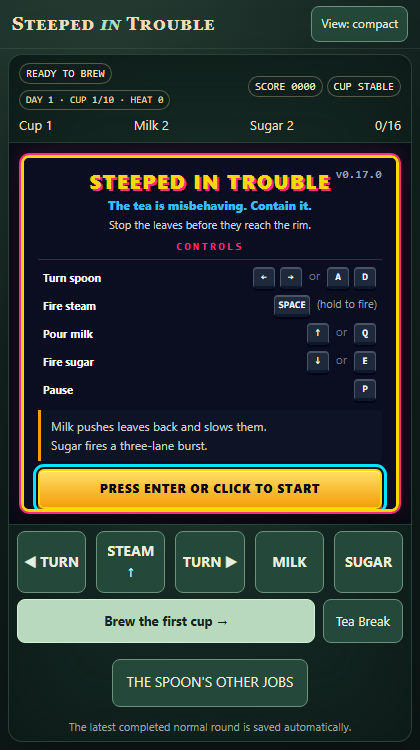
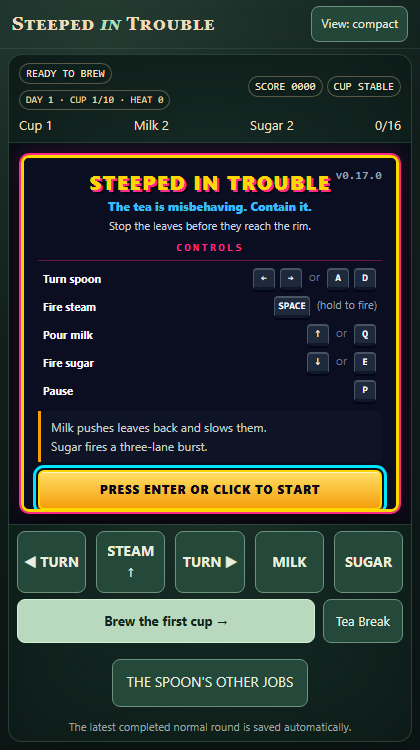
fix(overlay): fix page scrolling regression, keyboard new-pot activation, and focus management

diff --git a/tests/unit/arcadeOverlay.test.js b/tests/unit/arcadeOverlay.test.js
@@ -110,8 +110,11 @@ describe('instruction overlay controller', () => {
     const newPotBtn = createElement('overlayNewPotBtn', 'button');
     const touchSummary = createElement('overlayTouchSummary', 'div');
 
+    dialog.querySelectorAll = vi.fn(() => [primaryBtn, newPotBtn].filter((b) => !b.hidden));
+
     const doc = {
       activeElement: null,
+      defaultView: { scrollX: 0, scrollY: 0, scrollTo: vi.fn() },
       getElementById: vi.fn((id) => elements.get(id) || null),
       addEventListener: vi.fn((event, handler) => {
         if (!listeners.has(event)) listeners.set(event, []);
@@ -259,6 +262,119 @@ describe('instruction overlay controller', () => {
     });
 
     expect(onStart).toHaveBeenCalledWith({ fromTeaBreak: false, isNewPot: true });
+  });
+
+  it('Enter key on focused New Pot button triggers new pot confirmation flow', () => {
+    const { doc, newPotBtn } = makeMockDoc();
+    const onStart = vi.fn();
+    const overlay = createInstructionOverlay({ doc, onStart });
+
+    overlay.show({ hasSavedPot: true });
+    doc.activeElement = newPotBtn;
+
+    const event = {
+      type: 'keydown',
+      code: 'Enter',
+      preventDefault: vi.fn(),
+      stopPropagation: vi.fn(),
+    };
+    doc.dispatchEvent(event);
+
+    expect(event.preventDefault).toHaveBeenCalled();
+    expect(event.stopPropagation).toHaveBeenCalled();
+    expect(onStart).toHaveBeenCalledWith({ fromTeaBreak: false, isNewPot: true });
+    expect(overlay.isOpen).toBe(false);
+  });
+
+  it('Space key on focused New Pot button triggers new pot confirmation flow', () => {
+    const { doc, newPotBtn } = makeMockDoc();
+    const onStart = vi.fn();
+    const overlay = createInstructionOverlay({ doc, onStart });
+
+    overlay.show({ hasSavedPot: true });
+    doc.activeElement = newPotBtn;
+
+    const event = {
+      type: 'keydown',
+      code: 'Space',
+      preventDefault: vi.fn(),
+      stopPropagation: vi.fn(),
+    };
+    doc.dispatchEvent(event);
+
+    expect(event.preventDefault).toHaveBeenCalled();
+    expect(event.stopPropagation).toHaveBeenCalled();
+    expect(onStart).toHaveBeenCalledWith({ fromTeaBreak: false, isNewPot: true });
+  });
+
+  it('Space key on focused primary button does not dismiss overlay to prevent input leak', () => {
+    const { doc, primaryBtn } = makeMockDoc();
+    const onStart = vi.fn();
+    const overlay = createInstructionOverlay({ doc, onStart });
+
+    overlay.show({ hasSavedPot: false });
+    doc.activeElement = primaryBtn;
+
+    const event = {
+      type: 'keydown',
+      code: 'Space',
+      preventDefault: vi.fn(),
+      stopPropagation: vi.fn(),
+    };
+    doc.dispatchEvent(event);
+
+    expect(event.preventDefault).toHaveBeenCalled();
+    expect(event.stopPropagation).toHaveBeenCalled();
+    expect(onStart).not.toHaveBeenCalled();
+    expect(overlay.isOpen).toBe(true);
+  });
+
+  it('Tab key traps focus within dialog buttons', () => {
+    const { doc, primaryBtn, newPotBtn } = makeMockDoc();
+    const overlay = createInstructionOverlay({ doc });
+
+    overlay.show({ hasSavedPot: true });
+    doc.activeElement = newPotBtn; // last focusable element
+
+    const tabForward = {
+      type: 'keydown',
+      code: 'Tab',
+      shiftKey: false,
+      preventDefault: vi.fn(),
+    };
+    doc.dispatchEvent(tabForward);
+    expect(tabForward.preventDefault).toHaveBeenCalled();
+    expect(primaryBtn.focus).toHaveBeenCalledWith({ preventScroll: true });
+
+    doc.activeElement = primaryBtn; // first focusable element
+    const tabBackward = {
+      type: 'keydown',
+      code: 'Tab',
+      shiftKey: true,
+      preventDefault: vi.fn(),
+    };
+    doc.dispatchEvent(tabBackward);
+    expect(tabBackward.preventDefault).toHaveBeenCalled();
+    expect(newPotBtn.focus).toHaveBeenCalledWith({ preventScroll: true });
+  });
+
+  it('supports dynamic touch getter function and refreshes on show', () => {
+    const { doc, touchSummary } = makeMockDoc();
+    let touchState = false;
+    const overlay = createInstructionOverlay({
+      doc,
+      isTouchDevice: () => touchState,
+    });
+
+    expect(touchSummary.hidden).toBe(true);
+
+    touchState = true;
+    overlay.show();
+    expect(touchSummary.hidden).toBe(false);
+
+    touchState = false;
+    overlay.show();
+    expect(touchSummary.hidden).toBe(true);
   });
 
   it('restores focus safely when closed', () => {

diff --git a/src/ui/instructionOverlay.js b/src/ui/instructionOverlay.js
@@ -22,13 +22,14 @@ export function createInstructionOverlay({
   const primaryBtn = doc.getElementById('overlayPrimaryBtn');
   const newPotBtn = doc.getElementById('overlayNewPotBtn');
   const touchSummary = doc.getElementById('overlayTouchSummary');
+  const checkTouch = typeof isTouchDevice === 'function' ? isTouchDevice : () => Boolean(isTouchDevice);
 
   if (versionEl && version) {
     versionEl.textContent = `v${version}`;
   }
 
   if (touchSummary) {
-    touchSummary.hidden = !isTouchDevice;
+    touchSummary.hidden = !checkTouch();
   }
 
   let open = false;
@@ -125,7 +126,11 @@ export function createInstructionOverlay({
     if (e.code === 'Enter') {
       e.preventDefault();
       e.stopPropagation();
-      dismissPrimary();
+      if (doc.activeElement === newPotBtn) {
+        dismissNewPot();
+      } else {
+        dismissPrimary();
+      }
       return;
     }
     if (e.code === 'Escape') {
@@ -137,6 +142,9 @@ export function createInstructionOverlay({
     if (e.code === 'Space') {
       e.preventDefault();
       e.stopPropagation();
+      if (doc.activeElement === newPotBtn) {
+        dismissNewPot();
+      }
       return;
     }
     if (e.code === 'Tab') {
@@ -162,9 +170,6 @@ export function createInstructionOverlay({
   }
 
   if (dialog) {
-    dialog.addEventListener('keydown', onKeyDown);
-    cleanups.push(() => dialog.removeEventListener('keydown', onKeyDown));
-
     dialog.addEventListener('click', onBackdropClick);
     cleanups.push(() => dialog.removeEventListener('click', onBackdropClick));
   }
@@ -191,6 +196,10 @@ export function createInstructionOverlay({
       teaBreakCallback = onReturn;
       lastFocused = doc.activeElement;
 
+      if (touchSummary) {
+        touchSummary.hidden = !checkTouch();
+      }
+
       if (primaryBtn) {
         if (fromTeaBreak) {
           primaryBtn.textContent = 'BACK TO TEA BREAK (ENTER)';
@@ -205,6 +214,10 @@ export function createInstructionOverlay({
         newPotBtn.hidden = fromTeaBreak || !hasSavedPot;
       }
 
+      const win = doc.defaultView;
+      const prevX = win ? win.scrollX : 0;
+      const prevY = win ? win.scrollY : 0;
+
       if (dialog) {
         dialog.classList.add('is-open');
         if (typeof dialog.show === 'function' && !dialog.open) {
@@ -217,6 +230,10 @@ export function createInstructionOverlay({
       // Defer focus slightly or focus immediately
       if (primaryBtn) {
         primaryBtn.focus({ preventScroll: true });
+      }
+
+      if (win && (win.scrollX !== prevX || win.scrollY !== prevY)) {
+        win.scrollTo(prevX, prevY);
       }
     },
 

diff --git a/tests/browser/arcadeTitleOnboarding.spec.js b/tests/browser/arcadeTitleOnboarding.spec.js
@@ -159,9 +159,32 @@ test.describe('80s Arcade Title and Instruction Overlay', () => {
     await expect(primary).toHaveText('CONTINUE YOUR POT (ENTER)');
     await expect(newPot).toBeVisible();
 
-    // Clicking primary resumes the saved pot without data loss
-    await primary.click();
-    await expect(overlay).toBeHidden();
+    // Tab moves focus from Continue Pot to Brew A New Pot
+    await page.keyboard.press('Tab');
+    await expect(newPot).toBeFocused();
+
+    // Tab again wraps back to Continue Pot
+    await page.keyboard.press('Tab');
+    await expect(primary).toBeFocused();
+
+    // Shift-Tab wraps back to Brew A New Pot
+    await page.keyboard.press('Shift+Tab');
+    await expect(newPot).toBeFocused();
+
+    // Pressing Enter on focused Brew A New Pot opens confirmation modal without data loss
+    await page.keyboard.press('Enter');
+    const confirmModal = page.locator('#potConfirmation');
+    await expect(confirmModal).toBeVisible();
+    await expect(page.locator('#confirmPotTitle')).toHaveText('Replace your saved pot?');
+
+    // Cancelling confirmation modal keeps saved data intact
+    await page.locator('#cancelPotBtn').click();
+    await expect(confirmModal).toBeHidden();
+    expect(await page.evaluate(() => localStorage.getItem('steeped-in-trouble:pot-save'))).toBe(savedRaw);
+
+    // Sidebar button now cleanly continues the saved pot
+    await page.locator('#mainBtn').click();
+    await expect(page.locator('#hudStatus')).toHaveText('READING THE LEAVES');
 
     const currentSaved = await page.evaluate(() => localStorage.getItem('steeped-in-trouble:pot-save'));
     expect(currentSaved).toBe(savedRaw);
@@ -203,7 +226,18 @@ test.describe('80s Arcade Title and Instruction Overlay', () => {
     await expect(overlay).toBeVisible();
 
     // Initial focus on primary button
-    await expect(page.locator('#overlayPrimaryBtn')).toBeFocused();
+    const primaryBtn = page.locator('#overlayPrimaryBtn');
+    await expect(primaryBtn).toBeFocused();
+
+    // With single button, Tab traps focus to the primary button
+    await page.keyboard.press('Tab');
+    await expect(primaryBtn).toBeFocused();
+    await page.keyboard.press('Shift+Tab');
+    await expect(primaryBtn).toBeFocused();
+
+    // Space key does not dismiss overlay (prevents gameplay leakage)
+    await page.keyboard.press('Space');
+    await expect(overlay).toBeVisible();
 
     // Escape closes overlay safely
     await page.keyboard.press('Escape');

diff --git a/src/main.js b/src/main.js
@@ -159,7 +159,7 @@ function boot() {
   overlay = createInstructionOverlay({
     doc: document,
     version: __APP_VERSION__,
-    isTouchDevice: settings.touch === 'easy' || isTouchDevice(window),
+    isTouchDevice: () => settings.touch === 'easy' || isTouchDevice(window),
     onStart: ({ fromTeaBreak, isNewPot }) => {
       controls.settle(true);
       if (fromTeaBreak) return;
@@ -168,6 +168,7 @@ function boot() {
         return;
       }
       if (!collectionUI.primary()) game.confirm();
+      document.getElementById('game')?.focus({ preventScroll: true });
     },
     onClose: ({ fromTeaBreak, escape }) => {
       controls.settle(true);
@@ -278,7 +279,13 @@ function boot() {
 
   // Draw retro arcade splash centerpiece
   const splashCanvas = document.getElementById('splashCanvas');
-  if (splashCanvas) drawArcadeCenterpiece(splashCanvas);
+  if (splashCanvas) {
+    try {
+      drawArcadeCenterpiece(splashCanvas);
+    } catch {
+      // Graceful fallback if 2D context or canvas drawing encounters an error
+    }
+  }
 
   const isDirectScenario = params.has('arcade') || params.has('day') || params.has('cup') || params.has('fortune') || params.has('noOverlay');
   if (!isDirectScenario) {

diff --git a/index.html b/index.html
@@ -126,7 +126,7 @@
             <p><strong>Touch Controls:</strong> Hold ◀ / ▶ to steer · Tap STEAM · Tap MILK or double-tap · Tap SUGAR or hold</p>
           </div>
           <div class="overlay-actions">
-            <button id="overlayPrimaryBtn" class="arcade-start-btn" autofocus>PRESS ENTER OR CLICK TO START</button>
+            <button id="overlayPrimaryBtn" class="arcade-start-btn">PRESS ENTER OR CLICK TO START</button>
             <button id="overlayNewPotBtn" class="arcade-secondary-btn" hidden>BREW A NEW POT</button>
           </div>
           <p class="overlay-footer">You can review controls again any time in Tea Break.</p>
